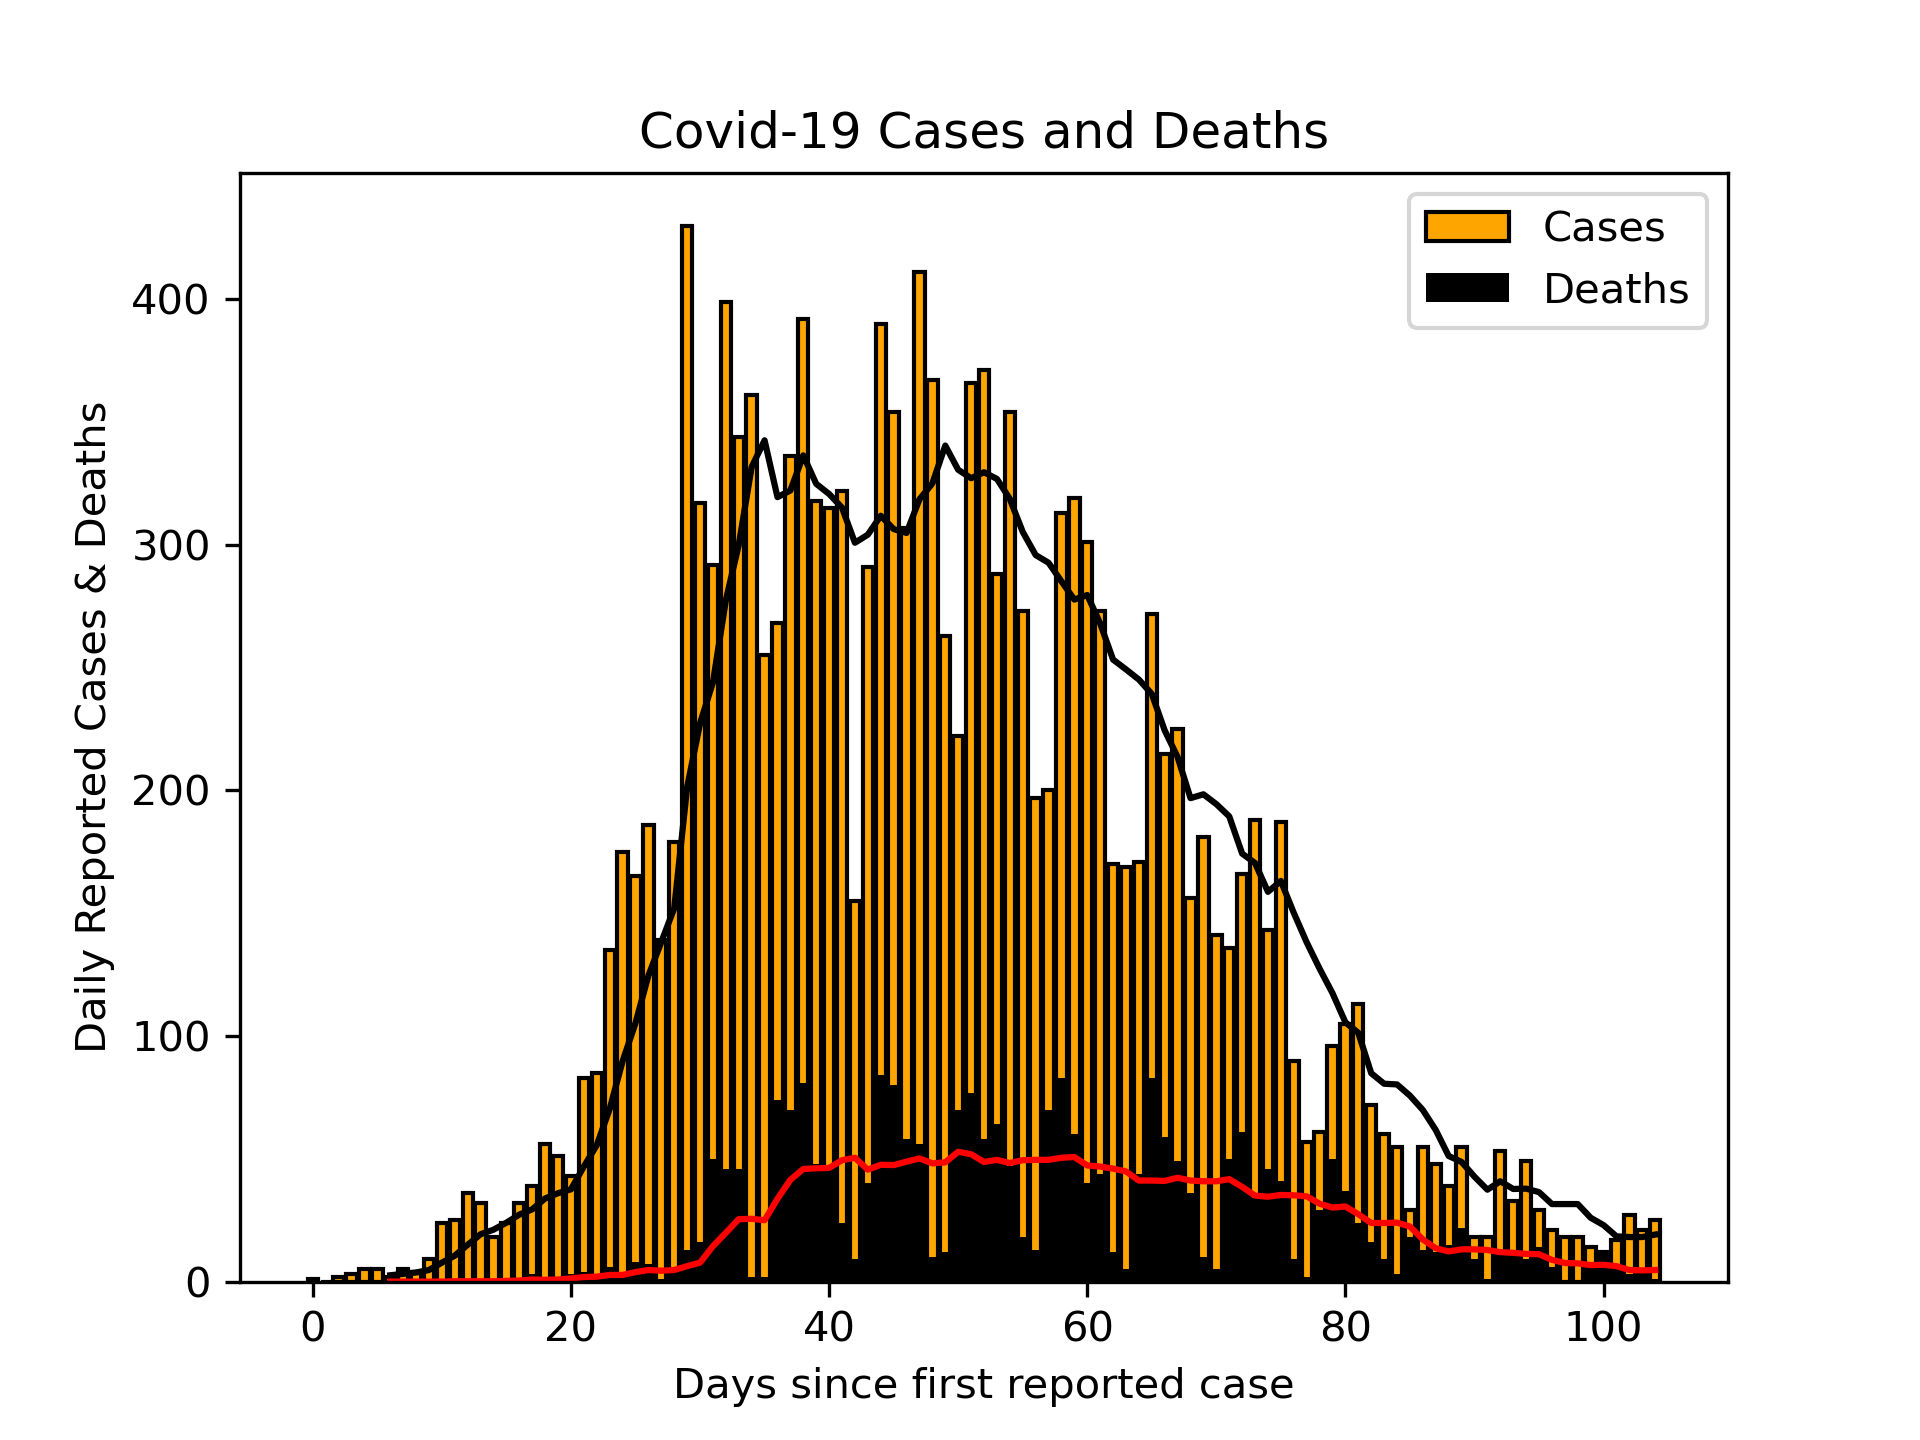
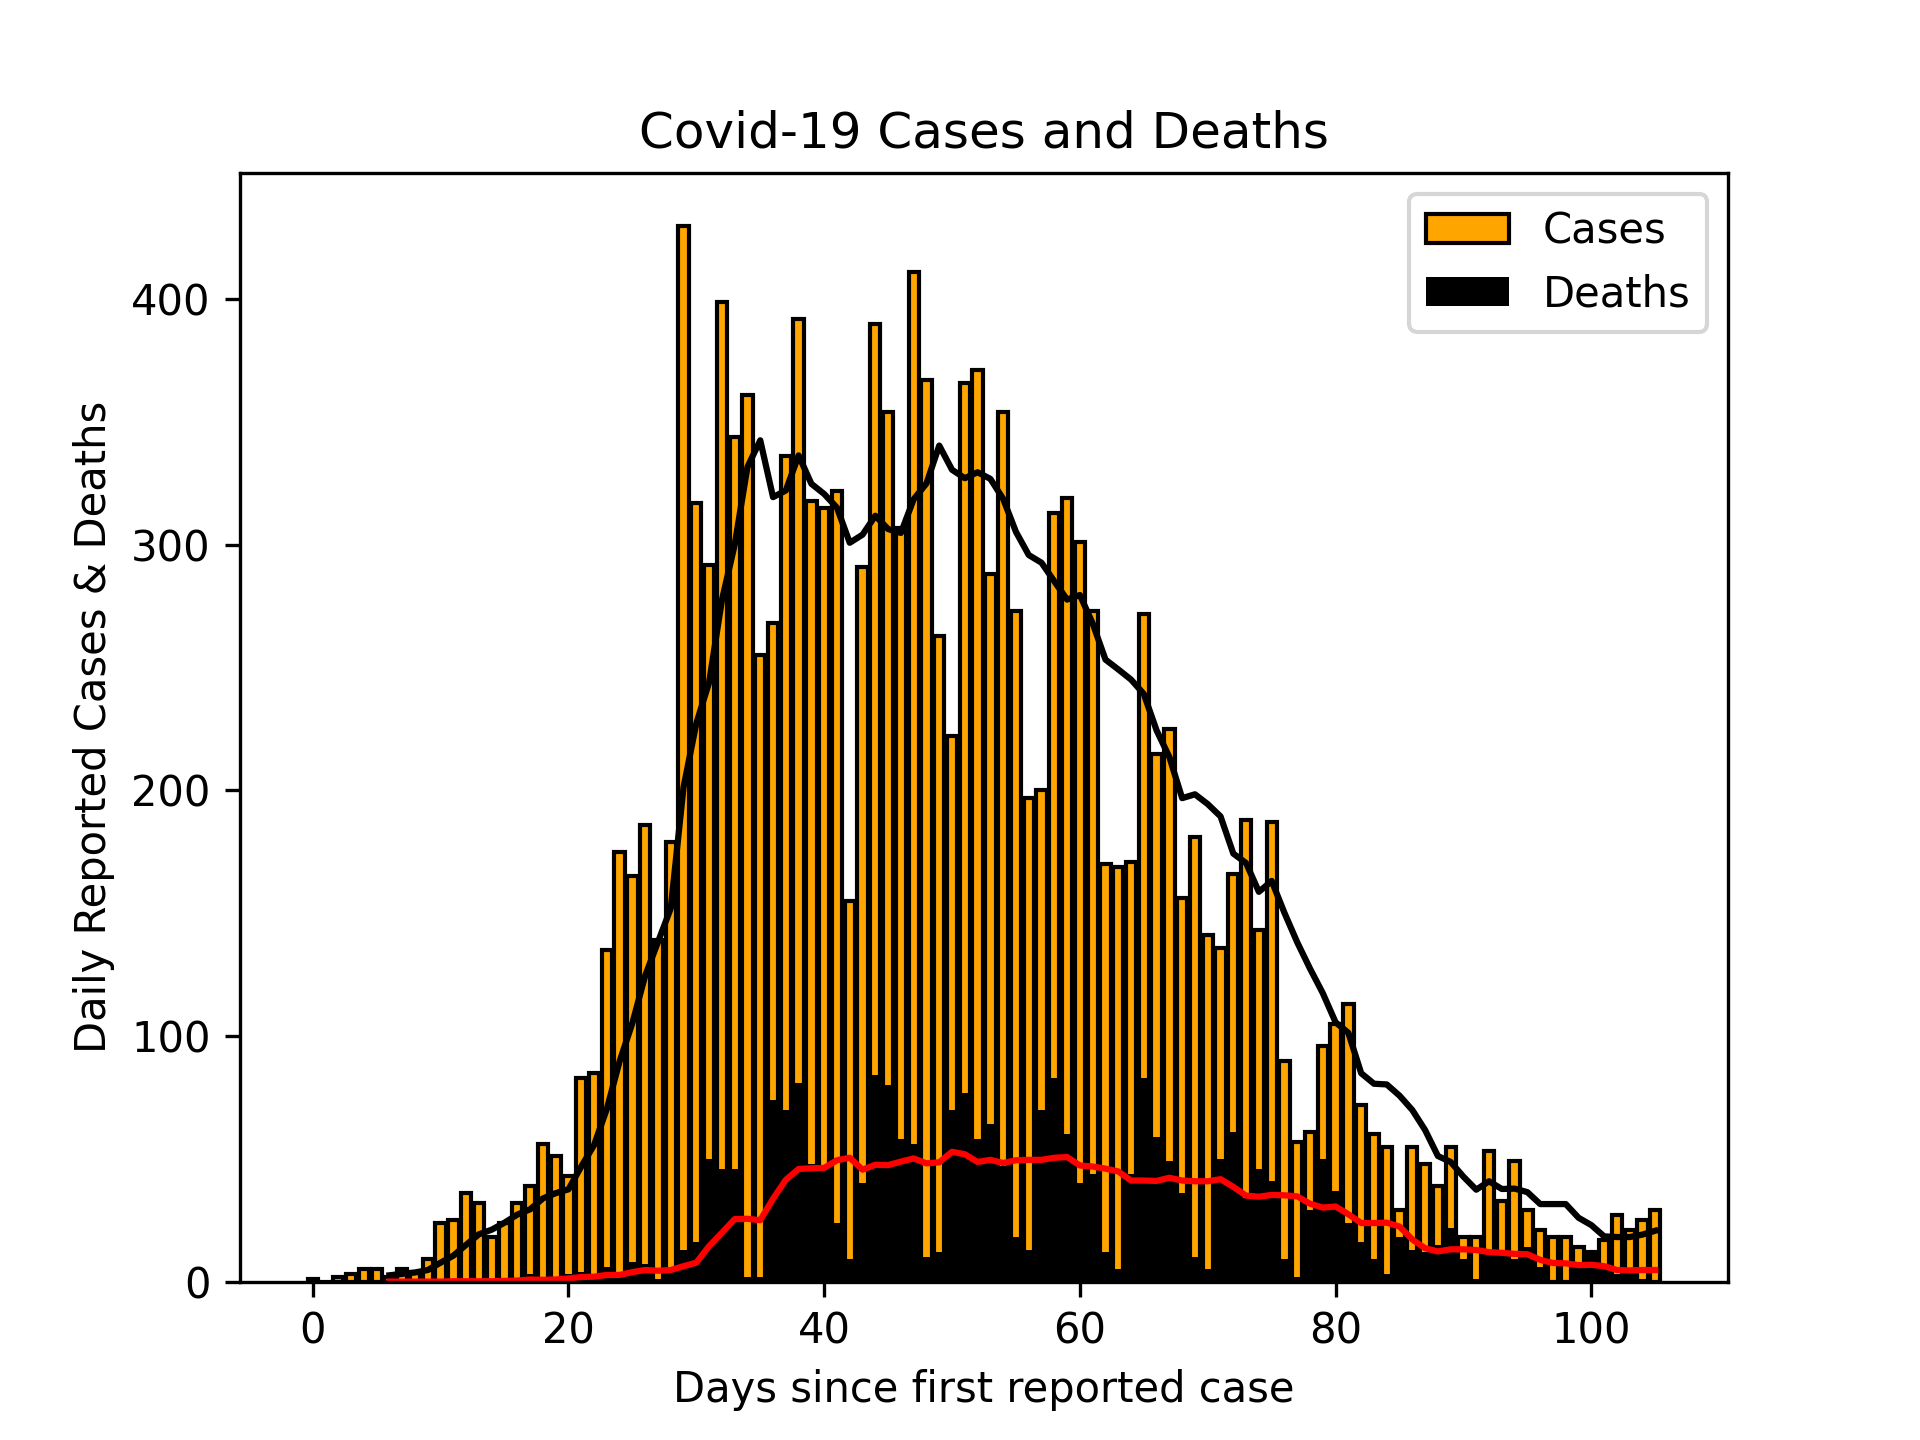
Updated Scottish cases 15/06/20

diff --git a/README.md b/README.md
@@ -1,4 +1,4 @@
-# Scottish Cases 14/06/20
+# Scottish Cases 15/06/20
 ![alt](scottish_cases.png)
 
 # UK Cases 14/06/20
